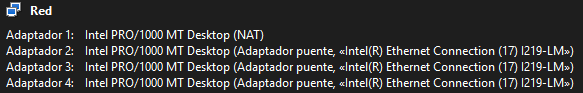
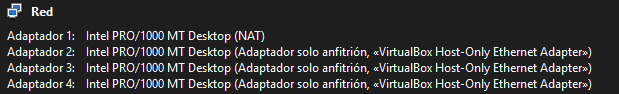
pr0203

diff --git a/ut02/pr0203/pr0203.md b/ut02/pr0203/pr0203.md
@@ -17,11 +17,11 @@ En la instalación, va a salir una ventana en si queremos instalar el servidor *
 
 ![Instalar SSH](Imagenes/SSH.png)
 
-Al **SERVER-A**, le ponemos **4** adaptadores de red, el primero en **NAT** y los demás en **Adaptador puente**.
+Al **SERVER-A**, le ponemos **4** adaptadores de red, el primero en **NAT** y los demás en **Adaptador solo anfitrión**.
 
 ![Adaptador red SERVER-A](Imagenes/Red-A.png)
 
-Las otras dos máquinas vamos a ponerles el primer adaptador en **NAT** y el secundario en **Adaptador puente**.
+Las otras dos máquinas vamos a ponerles el primer adaptador en **NAT** y el secundario en **Adaptador solo anfitrión**.
 
 ![Adaptador red SERVER-B y C](Imagenes/Red-BC.png)
 
